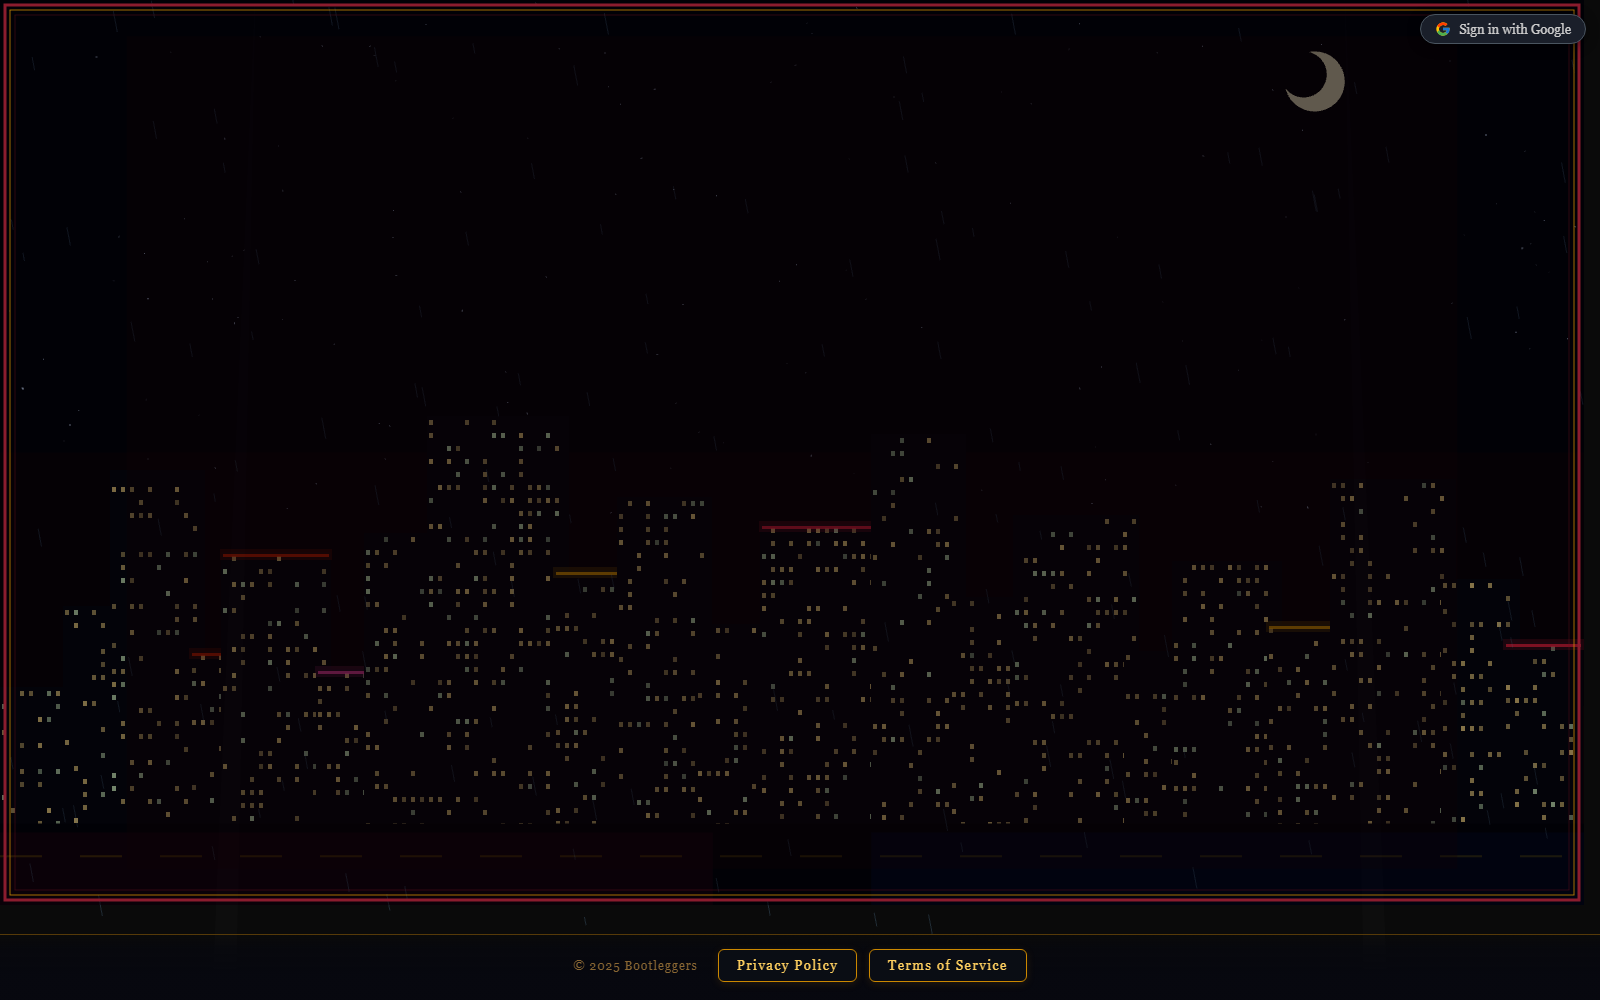
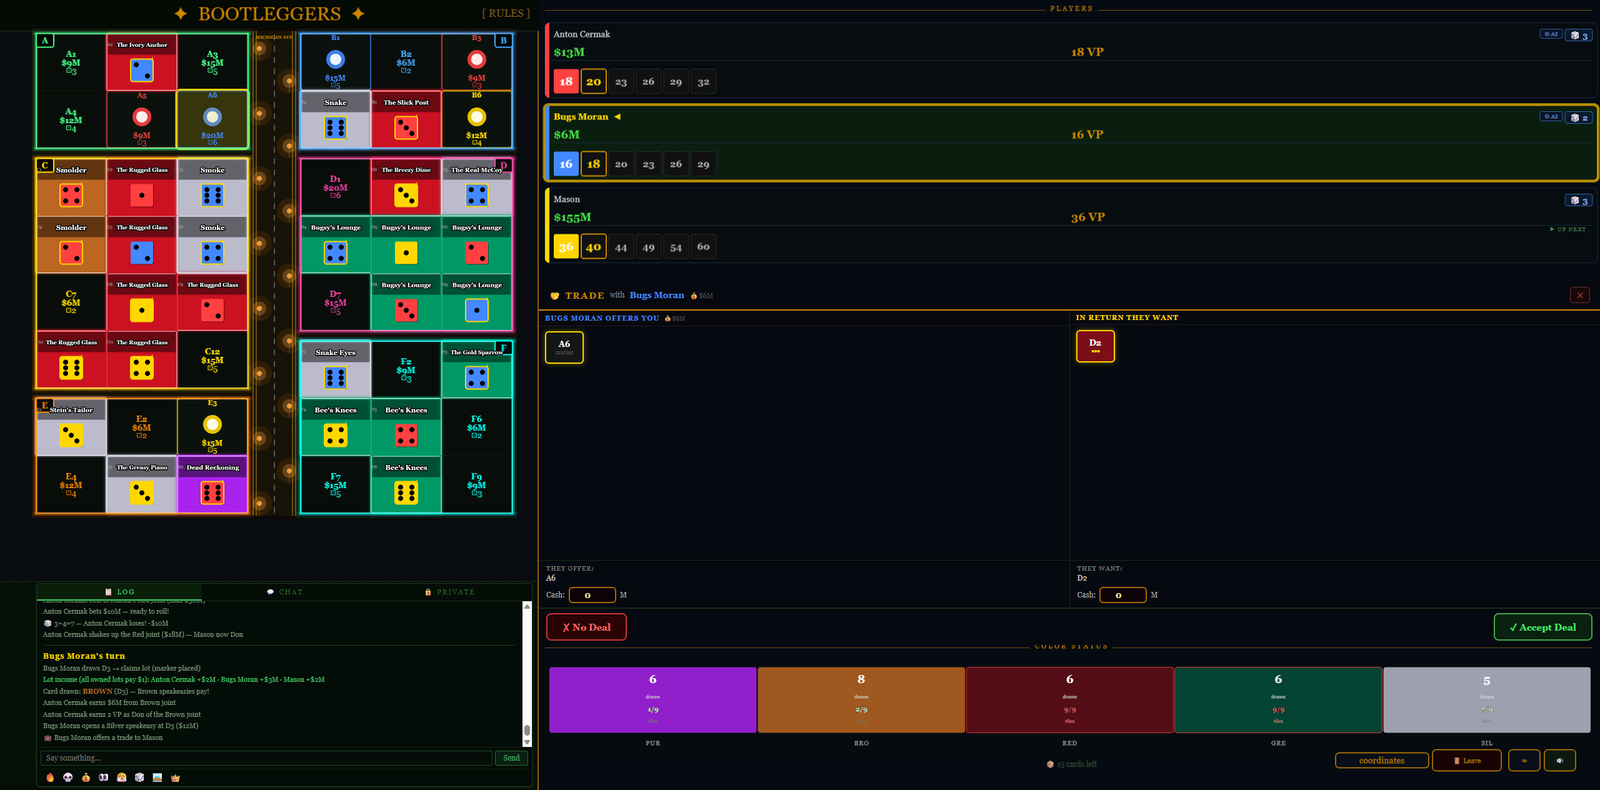
Add gameplay galleries for Bootleggers, Spot Kick & Betrayal; drop theme toggle
- Bootleggers: board, dice, roll result, achievements, lifetime stats, game-over
- Spot Kick: baller select, kick, goal (Snipping-tool popups cleaned)
- Betrayal: explorer lobby, room-placement board, event card
- Card thumbnails now show real gameplay instead of a login screen
- Lock the site to its single light theme; remove the light/dark toggle

diff --git a/theme.js b/theme.js
@@ -1,32 +1,12 @@
-/* Shared behavior used on every page: light/dark theme toggle + copy-email. */
-
-const SUN =
-  '<svg viewBox="0 0 24 24" width="20" height="20" fill="none" stroke="currentColor" stroke-width="2" stroke-linecap="round" stroke-linejoin="round"><circle cx="12" cy="12" r="4"/><path d="M12 2v2M12 20v2M4.9 4.9l1.4 1.4M17.7 17.7l1.4 1.4M2 12h2M20 12h2M4.9 19.1l1.4-1.4M17.7 6.3l1.4-1.4"/></svg>';
-const MOON =
-  '<svg viewBox="0 0 24 24" width="20" height="20" fill="none" stroke="currentColor" stroke-width="2" stroke-linecap="round" stroke-linejoin="round"><path d="M21 12.8A9 9 0 1 1 11.2 3a7 7 0 0 0 9.8 9.8Z"/></svg>';
+/* Shared behavior used on every page: force the light theme + copy-email. */
 
 function applyTheme(theme) {
   document.documentElement.setAttribute("data-theme", theme);
-  const btn = document.getElementById("theme-toggle");
-  if (btn) btn.innerHTML = theme === "dark" ? SUN : MOON;
 }
 
+// Single fixed theme — no user-facing light/dark toggle.
 function initTheme() {
-  let theme = "light";
-  try {
-    theme = localStorage.getItem("theme") || "light";
-  } catch (e) {}
-  applyTheme(theme);
-  const btn = document.getElementById("theme-toggle");
-  if (btn)
-    btn.addEventListener("click", () => {
-      const next =
-        document.documentElement.getAttribute("data-theme") === "dark" ? "light" : "dark";
-      applyTheme(next);
-      try {
-        localStorage.setItem("theme", next);
-      } catch (e) {}
-    });
+  applyTheme("light");
 }
 
 // Click-to-copy email — avoids opening a mail client (Outlook, etc.)

diff --git a/projects-data.js b/projects-data.js
@@ -163,7 +163,15 @@ const PROJECTS = [
     tags: ["TypeScript", "Socket.IO", "Node", "Phaser", "PostgreSQL"],
     tools: ["TypeScript", "Node.js", "Socket.io", "Phaser 3", "Three.js", "PostgreSQL", "Google OAuth", "Railway"],
     image: "images/bootleggers.png",
-    gallery: ["images/bootleggers.png"],
+    gallery: [
+      "images/bootleggers.png",
+      "images/bootleggers-lobby.png",
+      "images/bootleggers-dice.png",
+      "images/bootleggers-roll.png",
+      "images/bootleggers-achievements.png",
+      "images/bootleggers-stats.png",
+      "images/bootleggers-gameover.png",
+    ],
     video: "",
     live: "https://bootleggers.up.railway.app",
     code: "",
@@ -182,7 +190,11 @@ const PROJECTS = [
     tags: ["Node", "WebSocket", "Vanilla JS", "Canvas"],
     tools: ["Node.js", "WebSocket (ws)", "Vanilla JS (ES modules)", "HTML5 Canvas", "Web Audio API"],
     image: "images/betrayal.png",
-    gallery: ["images/betrayal.png"],
+    gallery: [
+      "images/betrayal.png",
+      "images/betrayal-lobby.png",
+      "images/betrayal-event.png",
+    ],
     video: "",
     live: "https://betrayal-production-c191.up.railway.app",
     code: "",
@@ -200,8 +212,12 @@ const PROJECTS = [
     ],
     tags: ["JavaScript", "Node", "WebSockets", "Discord SDK"],
     tools: ["JavaScript", "Node.js", "WebSockets (ws)", "@discord/embedded-app-sdk", "esbuild"],
-    image: "images/discord-soccer.png",
-    gallery: ["images/discord-soccer.png"],
+    image: "images/spotkick.png",
+    gallery: [
+      "images/spotkick.png",
+      "images/spotkick-kick.png",
+      "images/spotkick-goal.png",
+    ],
     video: "",
     live: "https://discord-soccer-production.up.railway.app",
     code: "",

diff --git a/index.html b/index.html
@@ -19,7 +19,6 @@
       <a href="#experience">Experience</a>
       <a href="resume.html" id="resume-link" target="_blank" rel="noopener">Resume</a>
       <a href="#contact">Contact</a>
-      <button class="theme-toggle" id="theme-toggle" aria-label="Toggle light/dark theme"></button>
     </nav>
   </header>
 

diff --git a/project.html b/project.html
@@ -18,7 +18,6 @@
       <a href="index.html#experience">Experience</a>
       <a href="resume.html" target="_blank" rel="noopener">Resume</a>
       <a href="index.html#contact">Contact</a>
-      <button class="theme-toggle" id="theme-toggle" aria-label="Toggle light/dark theme"></button>
     </nav>
   </header>
 